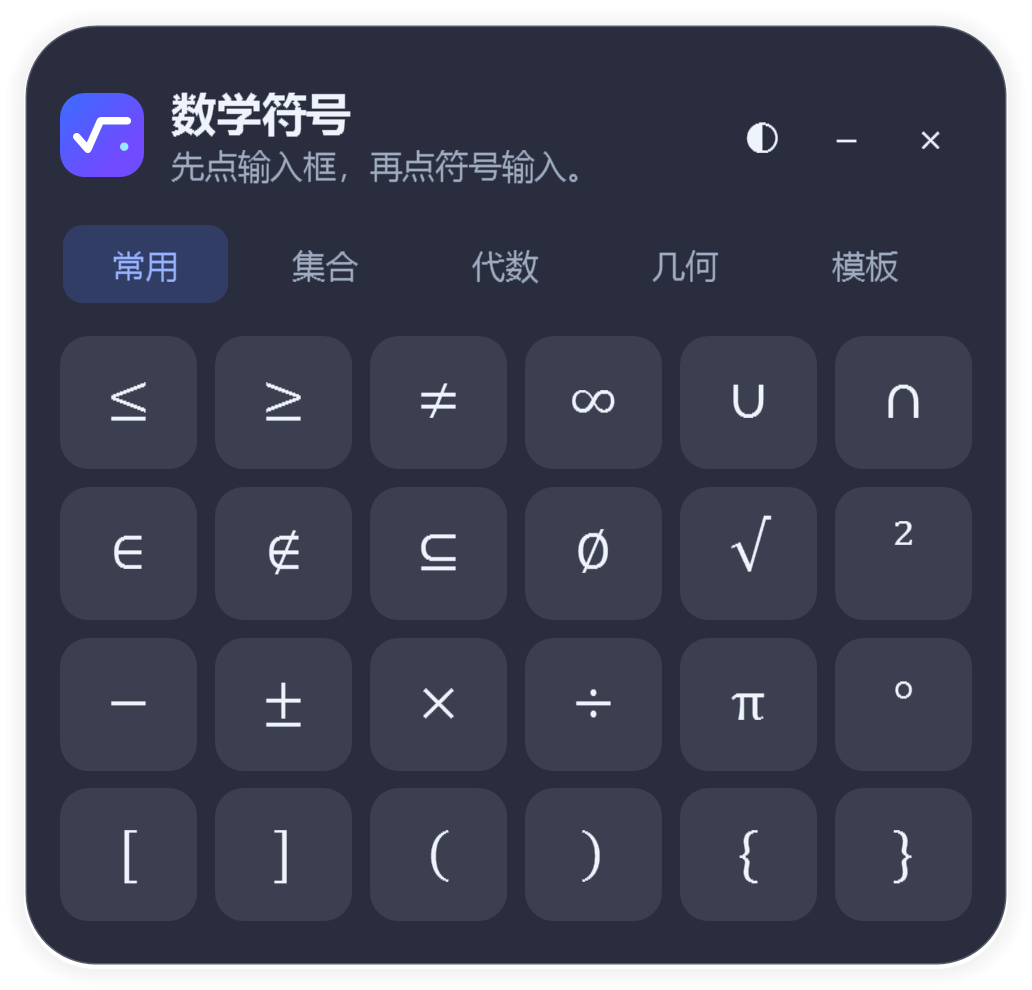
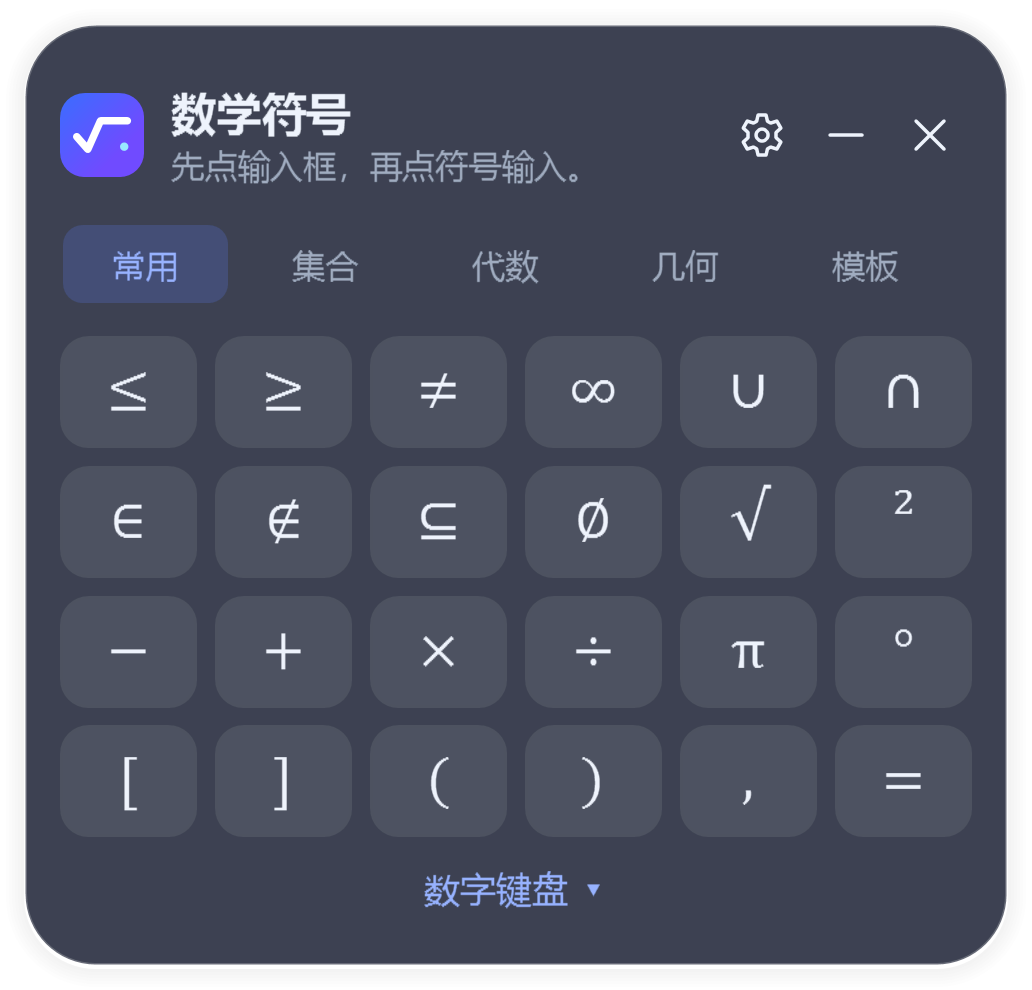
Add files via upload

diff --git a/README.md b/README.md
@@ -13,7 +13,7 @@ Windows · 便携离线 / Portable & offline · .NET Framework 4.8
 
 </div>
 
-| 浅色 · Light | 深色 · Dark |
+| v1.1.0 浅色 · Light | v1.1.0 深色 · Dark |
 | :---: | :---: |
 | <a href="https://raw.githubusercontent.com/shiyu429/MathSymbolPad/main/light.png"><img src="https://raw.githubusercontent.com/shiyu429/MathSymbolPad/main/light.png" width="344" alt="浅色界面 / Light interface" /></a> | <a href="https://raw.githubusercontent.com/shiyu429/MathSymbolPad/main/dark.png"><img src="https://raw.githubusercontent.com/shiyu429/MathSymbolPad/main/dark.png" width="344" alt="深色界面 / Dark interface" /></a> |
 
@@ -21,44 +21,52 @@ Windows · 便携离线 / Portable & offline · .NET Framework 4.8
 
 一款轻量的 Windows 数学符号悬浮输入工具。先点击输入框，再点击面板上的符号，即可在光标位置输入，适用于聊天框、浏览器和普通文本输入框。
 
+v1.1.0 新增默认启动分页和可展开的数字键盘。常用页补充了加号、逗号和等号，顶部按钮也换成了统一的线条图标。
+
 ### 功能
 
 - **符号分类**：常用、集合、代数、几何、模板五个分页，包含常用数学符号，悬停可查看中文说明。
 - **快捷模板**：一键插入成对括号、根号、分数、幂、下标和区间，光标自动定位到待填写位置。
 - **悬浮面板**：始终置顶，点击符号时保留输入框焦点；支持拖动、收成浮球和托盘操作。
-- **外观设置**：跟随系统、浅色、深色及背景透明度调整，自动记住位置、分页和外观。
+- **数字键盘**：可展开数字、运算符和小数点按键，方便连续输入算式。
+- **设置**：可指定默认启动分页，支持系统、浅色和深色配色及背景透明度调整，并记住位置。
 - **便携离线**：无需安装或联网，图标内置；输入不占用剪贴板，也不会自动发送消息。
 
 ### 使用
 
 1. [下载便携包](https://github.com/shiyu429/MathSymbolPad/releases/latest/download/MathSymbolPad-Portable.zip)并解压，运行 `MathSymbolPad.exe`；保留同目录下的 `MathSymbolPad.exe.config`。
 2. 点击目标输入框放好光标，再点击所需符号或模板。
-3. 拖动标题移动面板，点“−”收成浮球，点“◐”设置外观，点“×”退出。
+3. 点底部“数字键盘”展开或收起键盘。屏幕高度不足时，键盘会暂时占用符号区。
+4. 点右上角的齿轮设置默认打开的页面和外观。拖动标题移动面板，点“−”收成浮球，点“×”退出。
 
 ### 运行要求与说明
 
 - 64 位 Windows，需有 .NET Framework 4.8。
 - 模板输入普通数学文本，不提供公式排版或自动求解。
 - 普通权限运行时，不保证能向管理员权限窗口输入。
-- 支持系统缩放和多显示器定位；展开约需 344×330 个逻辑像素，极低分辨率配合高缩放时可能显示不全。
+- 支持系统缩放和多显示器定位；面板约 344×330 个逻辑像素，完整展开数字键盘后约 344×502。
 
 ## English
 
 A lightweight floating math symbol pad for Windows. Focus a text field, then click a symbol to insert it at the caret. Designed for chat boxes, browser text fields and standard text inputs.
+
+Version 1.1.0 adds a configurable startup tab and an expandable number pad. The Common tab now includes plus, comma, and equals, and the header uses matching line icons.
 
 ### Features
 
 - **Organized symbols**: five fixed tabs for common symbols, sets, algebra, geometry and templates, with Chinese tooltips.
 - **Quick templates**: insert paired brackets, roots, fractions, powers, subscripts and intervals, with the caret positioned for typing.
 - **Floating panel**: stays on top without taking focus when inserting symbols; supports dragging, a compact floating button and a tray menu.
-- **Appearance controls**: system, light and dark themes with adjustable background opacity; remembers position, tab and appearance.
+- **Number pad**: expand a calculator-style keypad to type digits, operators and the decimal point.
+- **Settings**: choose the startup tab, theme and background opacity; the app also remembers its position.
 - **Portable and offline**: no installer or network connection required; embedded icons, no clipboard usage for input and no automatic message sending.
 
 ### Getting started
 
 1. [Download the portable ZIP](https://github.com/shiyu429/MathSymbolPad/releases/latest/download/MathSymbolPad-Portable.zip), extract it and run `MathSymbolPad.exe`. Keep `MathSymbolPad.exe.config` beside the executable.
 2. Focus your target text field, then click a symbol or template.
-3. Drag the header to move the panel. Click “−” to collapse, “◐” for appearance settings or “×” to exit.
+3. Click “数字键盘” to show or hide the number pad. On short displays, it temporarily takes the place of the symbol grid.
+4. Click the gear icon to choose the startup tab and appearance. Drag the header to move the panel, click “−” to collapse or “×” to exit.
 
 Interface labels and tooltips are currently in Chinese.
 
@@ -67,7 +75,7 @@ Interface labels and tooltips are currently in Chinese.
 - 64-bit Windows with .NET Framework 4.8.
 - Templates insert plain mathematical text; formula typesetting and equation solving are not included.
 - Input into administrator-level windows is not guaranteed when the pad runs with standard permissions.
-- Supports display scaling and multi-monitor positioning. The expanded panel needs approximately 344×330 logical pixels; very small work areas at high scaling may clip the panel.
+- Supports display scaling and multi-monitor positioning. The panel is approximately 344×330 logical pixels, or 344×502 with the full number pad expanded.
 
 ## 源码构建 / Build from source
 
